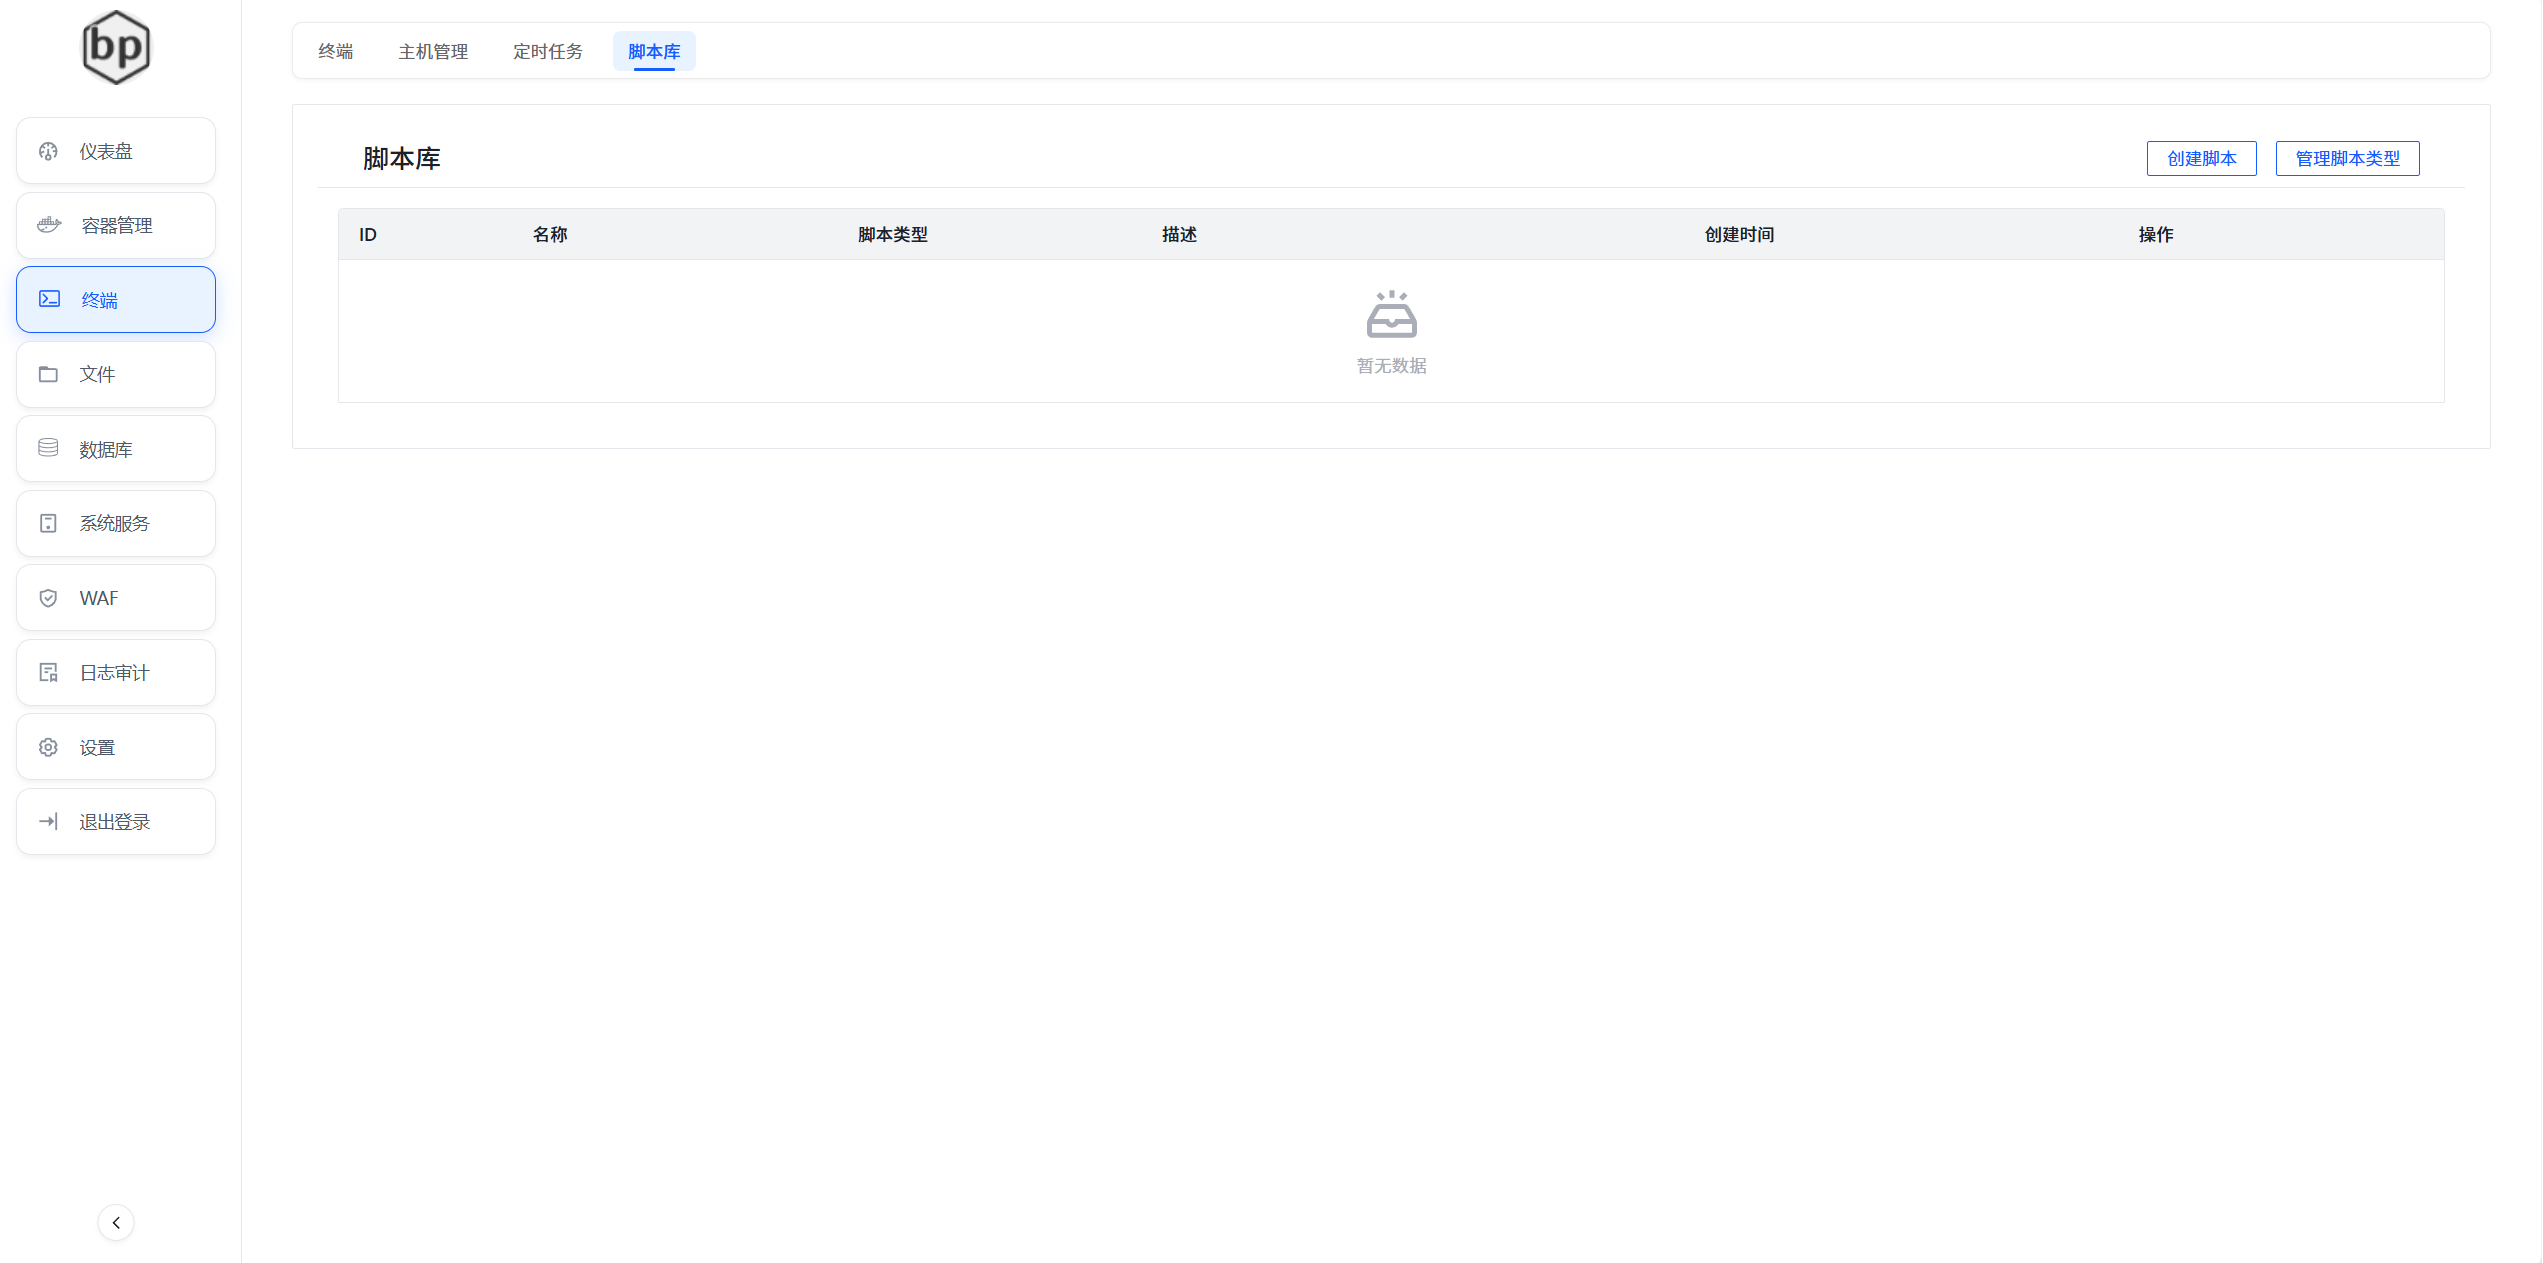
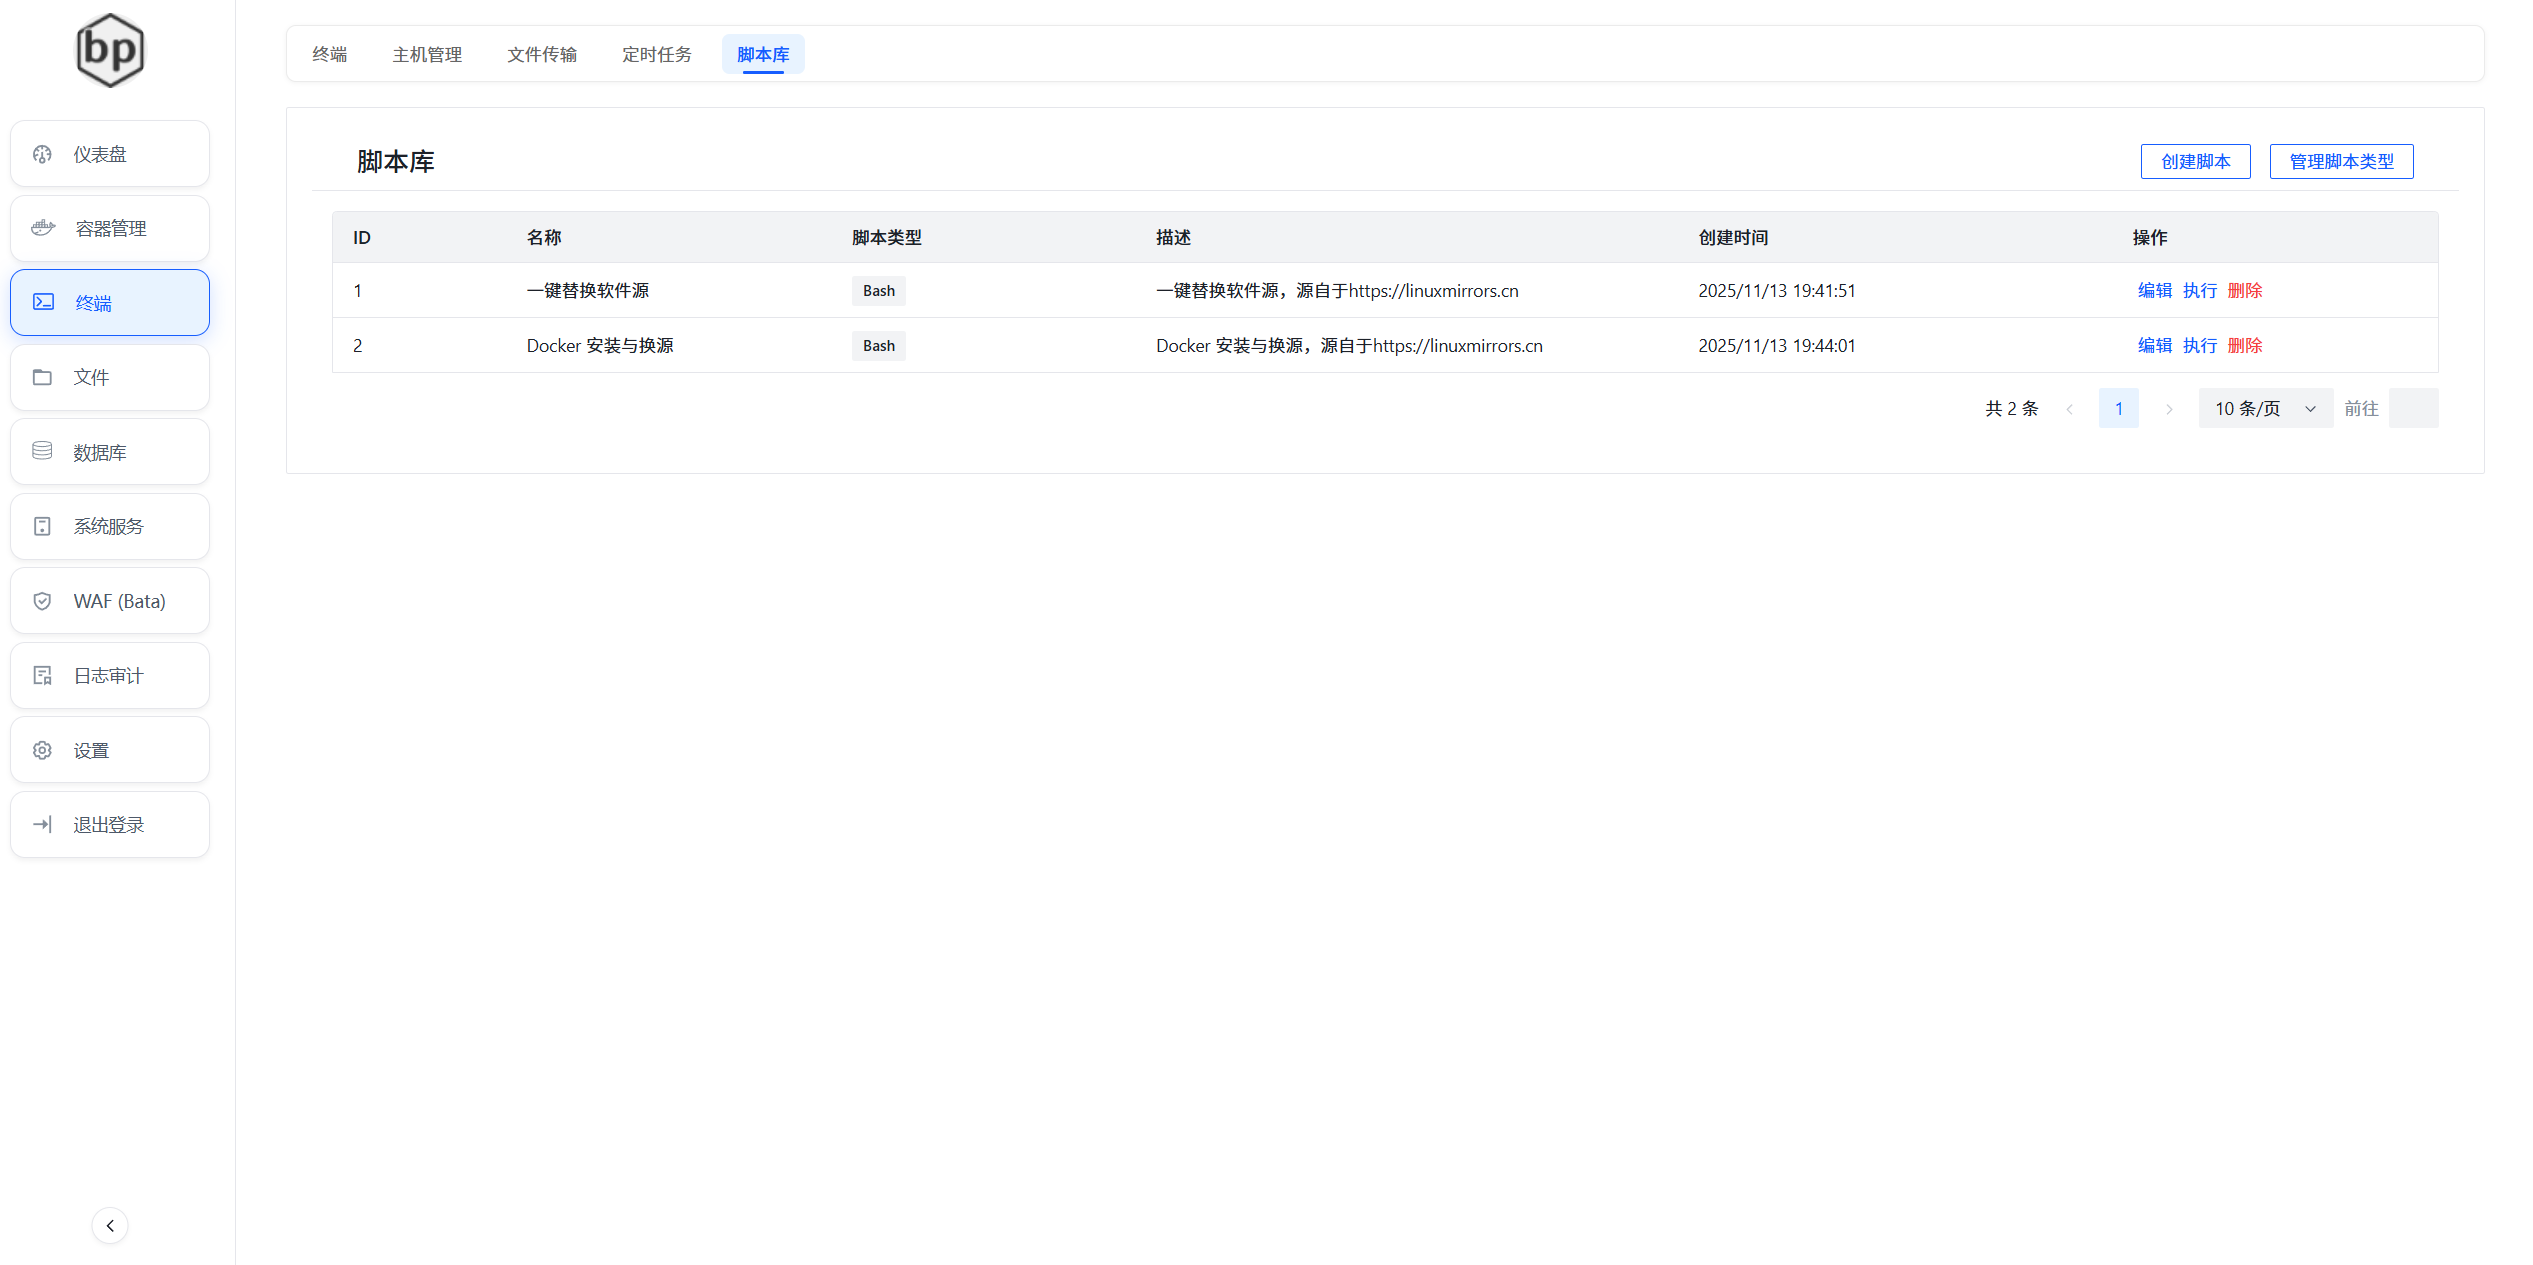
Add new demo image

diff --git a/README.md b/README.md
@@ -1,6 +1,6 @@
 ![favicon](images/favicon.ico)
 # BlackPotBPanel V2
-BlackPotBPanel 是一款使用AI仿照BT面板基于vue+fastapi开发的linux管理面板，写的比较垃圾，只实现了一些基本功能，后续可能会继续完善。
+BlackPotBPanel 是一款仿照BT面板基于vue+fastapi开发的linux管理面板，写的比较垃圾，只实现了一些基本功能，后续可能会继续完善。
 
 ## 演示环境
 (https://demo.panel.blackpotbp.cc)
@@ -115,33 +115,44 @@ systemctl start Blackpotbpanel
 ```
 
 
-## 功能
-- 简洁易用的可视化操作界面
-- 登录功能
+## 界面展示
+### 登录功能
 ![登录界面](images/login.png)
-- 首页功能
+### 首页功能
 ![首页功能](images/home.png)
-- 容器管理，仅支持docker
+### 容器管理，仅支持docker
 ![容器管理](images/docker.png)
-- 终端功能
+![容器列表](images/containers.png)
+![镜像列表](images/images.png)
+![网络列表](images/networks.png)
+![卷列表](images/volumes.png)
+![compose列表](images/compose.png)
+![容器宿主机列表](images/containerHost.png)
+### 终端功能
 ![终端功能](images/cmd.png)
-- 定时任务
+### 主机管理
+![主机管理](images/host.png)
+### 文件传输
+![文件传输](images/fileTransfer.png)
+### 定时任务
 ![定时任务](images/crontab.png)
-- 脚本库
+### 脚本库
 ![脚本库](images/script.png)
-- 文件管理
+### 文件管理
 ![文件管理](images/file.png)
-- 数据库管理
+### 数据库管理
 ![mysql管理](images/mysql.png)
+![postgresql管理](images/pgsql.png)
 ![sqlite管理](images/sqlite.png)
-- 系统服务
+### 防火墙管理
 ![防火墙管理](images/firewall.png)
-![系统服务](images/service.png)
-- WAF管理
+### SSH服务
+![SSH服务](images/service.png)
+### WAF管理(Beta版本)
 ![WAF管理](images/waf.png)
-- 日志管理
+### 日志管理
 ![日志管理](images/log.png)
-- 系统设置
+### 系统设置
 ![系统设置](images/setting.png)
 
 ## 待完善功能
